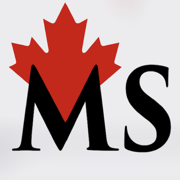
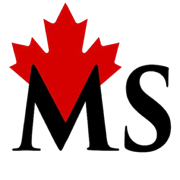
brand: use transparent Marina Snyder mark

diff --git a/src/app/globals.css b/src/app/globals.css
@@ -206,9 +206,9 @@ p {
   flex: 0 0 auto;
   place-items: center;
   overflow: hidden;
-  border: 1px solid var(--border);
+  border: 0;
   border-radius: 8px;
-  background: var(--surface);
+  background: transparent;
 }
 
 .brand-mark img {
@@ -1253,7 +1253,8 @@ p {
 }
 
 .site-footer .brand-mark {
-  border-color: var(--surface);
+  background: var(--surface);
+  border: 1px solid var(--surface);
 }
 
 .site-footer .brand-mark img {
